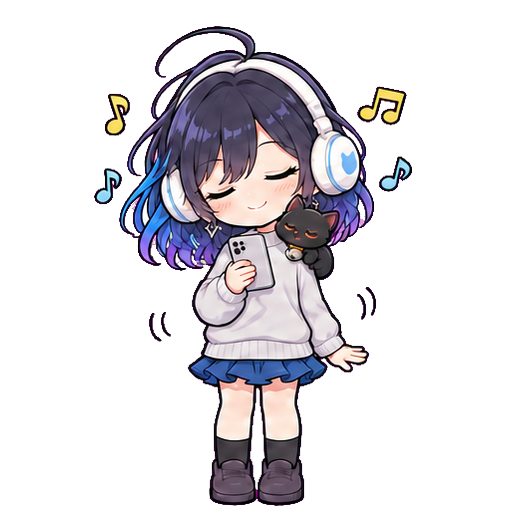
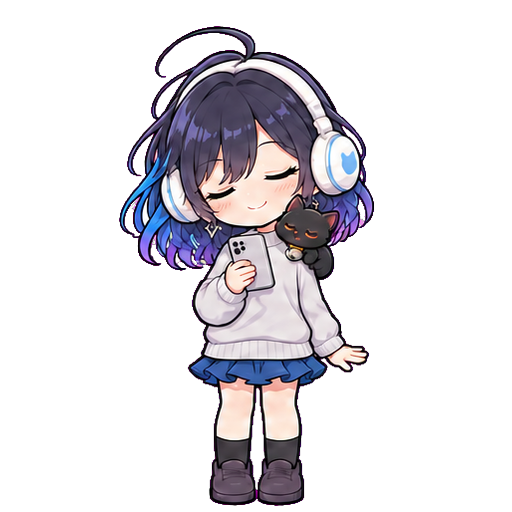
v0.6.1：听歌随节拍律动（Windows 读系统声音检测鼓点）、音符飘动、Cindy 页面实时同步音乐/视频状态

diff --git a/main.js b/main.js
@@ -1,4 +1,4 @@
-const { app, BrowserWindow, ipcMain, Menu, Tray, nativeImage, screen } = require('electron');
+const { app, BrowserWindow, ipcMain, Menu, Tray, nativeImage, screen, session, desktopCapturer } = require('electron');
 const path = require('path');
 const fs = require('fs');
 const http = require('http');
@@ -39,7 +39,7 @@ const DEFAULT_CONFIG = {
   affection: 0, outfit: 'default',
   chatBackend: 'api', relayUrl: 'http://127.0.0.1:47832',
   followCindy: false, followProcess: process.platform === 'win32' ? 'Cindy.exe' : (IS_LINUX ? 'cindy' : 'Cindy'),
-  autoPeek: false, gravity: false, dock: null, sharedAt: 0, mediaSense: true,          // autoPeek 默认关闭：不要让桌宠自己跑去趴边
+  autoPeek: false, gravity: false, dock: null, sharedAt: 0, mediaSense: true, musicDance: true,          // autoPeek 默认关闭：不要让桌宠自己跑去趴边
   state: { mood: 70, energy: 80, firstDay: today(), ruaTotal: 0, chatTotal: 0, focusDone: 0, moodLog: [] },
   reminders: []
 };
@@ -54,12 +54,36 @@ let mediaState = { kind: null, since: 0 }, mediaWatcher = null;
 function applyMediaSense() {
   const on = cfg.mediaSense !== false;
   if (on && !mediaWatcher) {
-    mediaWatcher = mediaMod.start({ getCfg: () => cfg, log: (...a) => console.log('[media]', ...a),
-      onKind: (k) => { mediaState = { kind: k, since: Date.now() }; broadcast('media:update', mediaState); } });
+    mediaWatcher = mediaMod.start({ getCfg: () => cfg, log: (...a) => console.log('[media]', ...a), onKind: (k) => setMedia(k, false) });
   } else if (!on && mediaWatcher) {
-    mediaWatcher.stop(); mediaWatcher = null; mediaState = { kind: null, since: Date.now() }; broadcast('media:update', mediaState);
+    mediaWatcher.stop(); mediaWatcher = null; setMedia(null, false);
   }
 }
+function setMedia(k, manual) {
+  mediaState = { kind: k, since: Date.now(), manual: !!manual, bpm: 0, real: false };
+  broadcast('media:update', mediaState); pushMedia(true); controlLoopback();
+}
+// 推给 Cindy 里的桌宠页（经本地中继）；节拍估计变化时也会带上 bpm，让那边的桌宠跟着同一个速度晃
+let lastMediaPush = 0;
+function pushMedia(force) {
+  if (cfg.syncActions === false) return;
+  if (!force && Date.now() - lastMediaPush < 3500) return;
+  lastMediaPush = Date.now();
+  fetch((cfg.relayUrl || 'http://127.0.0.1:47832').replace(/\/+$/, '') + '/media', {
+    method: 'POST', headers: { 'Content-Type': 'application/json', 'X-Desk-Pet': '1' },
+    body: JSON.stringify({ kind: mediaState.kind, bpm: mediaState.bpm || 0, real: !!mediaState.real }), signal: AbortSignal.timeout(2000)
+  }).catch(() => {});
+}
+// 听音乐时才读取“系统正在发出的声音有多大声”（只做节拍分析，不录音、不保存、不上传）；其余时间关闭
+function controlLoopback() {
+  if (!win || win.isDestroyed()) return;
+  const want = mediaState.kind === 'music' && cfg.musicDance !== false && process.platform === 'win32';     // 只在 Windows 读系统声音；Mac 会弹“屏幕录制”授权框，Linux 通道不稳定，这两个系统用固定节奏
+  win.webContents.executeJavaScript(want ? 'window.petStartLoopback && window.petStartLoopback()' : 'window.petStopLoopback && window.petStopLoopback()', true).catch(() => {});
+}
+ipcMain.on('media:beat', (_e, b) => {
+  if (!b || mediaState.kind !== 'music') return;
+  mediaState.bpm = Math.max(0, Math.min(240, Math.round(+b.bpm || 0))); mediaState.real = !!b.real; pushMedia(false);
+});
 
 function loadConfig() {
   cfgPath = path.join(app.getPath('userData'), 'config.json');
@@ -111,6 +135,7 @@ function createWindow() {
   if (IS_LINUX) win.setVisibleOnAllWorkspaces(true);
   if (process.platform === 'darwin') win.setVisibleOnAllWorkspaces(true, { visibleOnFullScreen: true, skipTransformProcessType: true });   // 切换桌面 / 全屏应用时仍然在场
   win.loadFile(path.join(__dirname, 'renderer', 'index.html'));
+  win.webContents.once('did-finish-load', () => setTimeout(controlLoopback, 3000));
   win.once('ready-to-show', () => { if (!cfg.followCindy) win.show(); else pollCindy(true); });
   win.webContents.on('console-message', (e) => { if (e.level === 'error' || e.level === 'warning') console.log('[renderer]', e.message); });
   win.webContents.on('render-process-gone', (_e, d) => console.log('[renderer gone]', d.reason));
@@ -142,7 +167,7 @@ ipcMain.handle('config:get', () => cfg);
 ipcMain.handle('config:set', (_e, patch) => {
   const prev = { o: cfg.outfit, r: cfg.activeRole, n: cfg.userName };
   cfg = { ...cfg, ...patch, api: { ...cfg.api, ...(patch.api || {}) }, state: { ...cfg.state, ...(patch.state || {}) } };
-  saveConfig(); broadcast('config:changed', cfg); startServer(); applyFollow(); applyMediaSense();
+  saveConfig(); broadcast('config:changed', cfg); startServer(); applyFollow(); applyMediaSense(); controlLoopback();
   if (prev.o !== cfg.outfit || prev.r !== cfg.activeRole || prev.n !== cfg.userName) touchShared('local');
   return cfg;
 });
@@ -303,6 +328,7 @@ function buildMenu() {
     { label: '跟随 Cindy（Cindy 运行时才显示）', type: 'checkbox', checked: !!cfg.followCindy,
       click: (i) => { cfg.followCindy = i.checked; saveConfig(); applyFollow(); broadcast('config:changed', cfg); } },
     { label: '感应音乐 / 视频（放歌时听歌、放视频时看视频）', type: 'checkbox', checked: cfg.mediaSense !== false, click: (i) => { cfg.mediaSense = i.checked; saveConfig(); applyMediaSense(); } },
+    { label: '听歌时随节拍律动（读取系统声音大小，不录音）', type: 'checkbox', checked: cfg.musicDance !== false, click: (i) => { cfg.musicDance = i.checked; saveConfig(); controlLoopback(); } },
     { label: '开机自动启动', type: 'checkbox', checked: autoStartOn(), click: (i) => setAutoStart(i.checked) },
     { label: '设置…', click: openSettings },
     { label: '隐藏桌宠', click: () => hidePet(true) },
@@ -349,6 +375,7 @@ function updateTray() {
     { type: 'separator' },
     { label: '跟随 Cindy', type: 'checkbox', checked: !!cfg.followCindy, click: (i) => { cfg.followCindy = i.checked; saveConfig(); applyFollow(); } },
     { label: '感应音乐 / 视频（放歌时听歌、放视频时看视频）', type: 'checkbox', checked: cfg.mediaSense !== false, click: (i) => { cfg.mediaSense = i.checked; saveConfig(); applyMediaSense(); } },
+    { label: '听歌时随节拍律动（读取系统声音大小，不录音）', type: 'checkbox', checked: cfg.musicDance !== false, click: (i) => { cfg.musicDance = i.checked; saveConfig(); controlLoopback(); } },
     { label: '开机自动启动', type: 'checkbox', checked: autoStartOn(), click: (i) => setAutoStart(i.checked) },
     { label: '设置…', click: openSettings },
     { label: '退出', click: () => { quitting = true; app.quit(); } }
@@ -388,7 +415,7 @@ function startServer() {
   if (server) { try { server.close(); } catch {} server = null; }
   server = http.createServer((req, res) => {
     const reply = (code, obj) => { res.writeHead(code, { 'Content-Type': 'application/json; charset=utf-8' }); res.end(JSON.stringify(obj)); };
-    if (req.method === 'GET' && req.url === '/ping') return reply(200, { ok: true, role: activeRole().name, roleId: cfg.activeRole, outfit: cfg.outfit, userName: cfg.userName, at: cfg.sharedAt || 0, mood: cfg.state.mood, energy: cfg.state.energy, agent: agentSnap.state, media: mediaState.kind, visible: !!(win && win.isVisible()) });
+    if (req.method === 'GET' && req.url === '/ping') return reply(200, { ok: true, role: activeRole().name, roleId: cfg.activeRole, outfit: cfg.outfit, userName: cfg.userName, at: cfg.sharedAt || 0, mood: cfg.state.mood, energy: cfg.state.energy, agent: agentSnap.state, media: mediaState.kind, mediaBpm: mediaState.bpm || 0, mediaReal: !!mediaState.real, visible: !!(win && win.isVisible()) });
     if (req.method === 'GET' && req.url === '/agent') return reply(200, { ok: true, ...agentSnap });
     if (req.method === 'GET' && (req.url === '/' || req.url === '/api')) return reply(200, {
       ok: true, name: 'Cindy 桌宠本地接口', version: app.getVersion(), auth: cfg.notifyToken ? 'X-Token 头或请求体 token' : '无',
@@ -425,7 +452,7 @@ function startServer() {
         toPet('menu:action', 'action_quiet', j.name); return reply(200, { ok: true });
       } else if (req.url === '/media') {
         const k = j.kind === 'music' || j.kind === 'video' ? j.kind : null;
-        mediaState = { kind: k, since: Date.now(), manual: true }; broadcast('media:update', mediaState); return reply(200, { ok: true, kind: k });
+        setMedia(k, true); return reply(200, { ok: true, kind: k });
       } else if (req.url === '/act') {                         // 来自 Cindy 页面的动作同步（不再回传）
         if (!['action', 'rua', 'sleep', 'wake'].includes(j.kind)) return reply(400, { ok: false, error: 'bad kind' });
         toPet('act:remote', { kind: j.kind, name: String(j.name || '').slice(0, 20) }); return reply(200, { ok: true });
@@ -491,7 +518,11 @@ else {
   });
   app.whenReady().then(() => {
     if (process.platform === 'darwin' && app.dock) app.dock.hide();          // macOS：不在 Dock 里显示图标，只留菜单栏图标
-    loadConfig(); createWindow(); createTray(); startServer(); applyFollow(); applyMediaSense();
+    loadConfig();
+    session.defaultSession.setDisplayMediaRequestHandler((_req, callback) => {      // 只给“系统声音”，页面拿到后立刻丢掉画面轨道
+      desktopCapturer.getSources({ types: ['screen'] }).then((src) => callback({ video: src[0], audio: 'loopback' })).catch(() => callback({}));
+    });
+    createWindow(); createTray(); startServer(); applyFollow(); applyMediaSense(); controlLoopback();
     const u = process.argv.find(a => a.startsWith(PROTOCOL + '://')); if (u) setTimeout(() => handleUrl(u), 1500);
   });
 }

diff --git a/plugin/main-view.js b/plugin/main-view.js
@@ -75,6 +75,7 @@ bc.onmessage = ({ data }) => {
   else if (data.type === 'state') applyRemote(data.state);
   else if (data.type === 'agent') onAgent(data.agent, data.usage);
   else if (data.type === 'act') applyAct(data.act);
+  else if (data.type === 'media') applyMedia(data.media && data.media.kind, data.media && data.media.bpm);
 };
 
 // ---------- 素材 ----------
@@ -106,7 +107,7 @@ function render() {
   const w = im.w * s, h = im.h * s;
   sprite.src = im.src; sprite.style.width = w + 'px'; sprite.style.height = h + 'px';
   sprite.style.transformOrigin = '50% 100%';
-  sprite.style.transform = `translateX(${cx - w / 2}px) scaleX(${pose === 'walk' && facing < 0 ? -1 : 1})`;
+  lastW = w; sprite.style.transform = xform();
   placeBubble(w, h, s, im);
 }
 function placeBubble(w, h, s, im) {
@@ -117,7 +118,48 @@ function placeBubble(w, h, s, im) {
   bubble.style.top = Math.max(4, top - bubble.offsetHeight - 14) + 'px';
 }
 let agentPose = null;                       // Cindy 正在干活时桌宠保持的工作姿势
-const restPose = () => agentPose || (sleeping ? 'sleep' : 'idle');
+const restPose = () => agentPose || mediaPose || (sleeping ? 'sleep' : 'idle');
+
+// ---------- 听音乐 / 看视频（桌面版感应到后推过来）+ 听歌时跟着节奏晃、音符飘起来 ----------
+const MEDIA_POSE = { music: 'listen_music', video: 'watch_video' };
+let mediaPose = null, mediaBpm = 104, lastW = 0;
+const dn = { on: false, env: 0, sway: 0, swayT: 0, dir: 1, next: 0 };
+function xform() {
+  const sx = pose === 'walk' && facing < 0 ? -1 : 1;
+  const d = dn.on ? ` translateY(${(-dn.env * 10).toFixed(1)}px) rotate(${dn.sway.toFixed(2)}deg) scale(${(1 - dn.env * 0.015).toFixed(3)}, ${(1 + dn.env * 0.03).toFixed(3)})` : '';
+  return `translateX(${cx - lastW / 2}px) scaleX(${sx})${d}`;
+}
+function syncMediaPose() {
+  if (agentPose || walking || tempPose || sleeping) return;
+  if (mediaPose && pose !== mediaPose) setPose(mediaPose);
+  else if (!mediaPose && (pose === 'listen_music' || pose === 'watch_video')) setPose(restPose());
+}
+function applyMedia(kind, bpm) {
+  if (bpm > 40) mediaBpm = bpm;                                           // 桌面版从真实声音里估出来的速度
+  const want = S.sync && kind && imgs[MEDIA_POSE[kind]] ? MEDIA_POSE[kind] : null;
+  if (want === mediaPose) return;
+  mediaPose = want; if (want) walking = null; syncMediaPose();
+}
+const NOTE_SRC = ['n_y1', 'n_y2', 'n_b1', 'n_b2'].map((n) => `/assets/notes/${n}.png`);
+function spawnNote() {
+  if (fx.querySelectorAll('.note').length > 12) return;
+  const r = sprite.getBoundingClientRect(), sr = stage.getBoundingClientRect(), im = cur(); if (!im) return;
+  const side = Math.random() < .5 ? -1 : 1, size = 22 + Math.random() * 14;
+  const el = document.createElement('img'); el.className = 'note'; el.src = pick(NOTE_SRC); el.style.width = size + 'px';
+  el.style.left = (r.left - sr.left + r.width * (0.5 + side * rand(0.3, 0.46)) - size / 2) + 'px';
+  el.style.top = (r.top - sr.top + im.t * (r.height / im.h) + r.height * rand(0.1, 0.26)) + 'px';
+  el.style.setProperty('--dx', (side * rand(14, 38)) + 'px'); el.style.setProperty('--r0', (side * rand(8, 24)) + 'deg');
+  el.style.setProperty('--dur', (1.5 + Math.random() * 0.9).toFixed(2) + 's');
+  fx.appendChild(el); setTimeout(() => el.remove(), 2600);
+}
+function danceStep(t, dt) {
+  if (!(pose === 'listen_music' && !walking)) { if (dn.on) { dn.on = false; dn.env = 0; dn.sway = 0; dn.swayT = 0; render(); } return; }
+  dn.on = true;
+  const period = 60000 / mediaBpm;
+  if (t >= dn.next) { dn.next = (dn.next && t - dn.next < period * 2 ? dn.next : t) + period; dn.env = Math.max(dn.env, 0.75); dn.dir = -dn.dir; dn.swayT = dn.dir * 2.4; spawnNote(); }
+  dn.env *= Math.exp(-dt / 150); dn.sway += (dn.swayT - dn.sway) * (1 - Math.exp(-dt / 110)); dn.swayT *= Math.exp(-dt / 600);
+  sprite.style.transform = xform();
+}
 function setPose(p, ms = 0) { pose = p; tempPose = !!ms; busyUntil = ms ? now() + ms : 0; render(); }
 async function setOutfit(o, announce, fromUser) {
   if (!OUTFITS.some((x) => x[0] === o)) o = 'default';
@@ -274,7 +316,7 @@ function onAgent(a, usage) {
   } else {
     agentPose = null;
     if (a.state === 'done' && prev !== 'done') { doAction('cheer', true); say2('这一轮做完啦！' + (AU ? '今天累计 ' + fmtN(AU.today.total) + ' tokens。' : ''), 6000); }
-    else if (prev !== a.state) setPose(sleeping ? 'sleep' : 'idle');
+    else if (prev !== a.state) setPose(restPose());
   }
   checkBudget();
 }
@@ -300,6 +342,8 @@ setInterval(() => {
   const t = now(), dt = Math.min(60, t - lastT); lastT = t;
   if (!imgs.idle) return;
   if (tempPose && busyUntil && t > busyUntil && t > ruaUntil) { tempPose = false; busyUntil = 0; setPose(restPose()); }
+  if (mediaPose || pose === 'listen_music' || pose === 'watch_video') syncMediaPose();
+  danceStep(t, dt);
   if (walking) {
     const sp = 0.07 * dt, dx = walking.tx - cx; facing = dx >= 0 ? 1 : -1;
     if (Math.abs(dx) <= sp) { cx = walking.tx; walking = null; setPose('idle'); nextDecision = t + rand(5000, 12000); }
@@ -313,7 +357,7 @@ setInterval(() => {
     else if (imgs.sit && r < .75) { doAction(pick(['sit', 'stretch', 'hug', 'drink'])); nextDecision = t + rand(10000, 20000); }
     else { setPose(Math.random() < .3 ? 'talk' : 'idle', 1800); nextDecision = t + rand(6000, 14000); }
   }
-  if (!agentPose && !sleeping && !walking && t - lastInteract > 5 * 60 * 1000) sleepNow();
+  if (!agentPose && !mediaPose && !sleeping && !walking && t - lastInteract > 5 * 60 * 1000) sleepNow();
   if (t - lastCare > 45 * 60 * 1000 && !sleeping) { lastCare = t; const l = pick(LINES.care); if (imgs.drink && /水/.test(l)) doAction('drink', true); else setPose('talk', 5000); say(l, 8000); }
 }, 16);
 window.addEventListener('resize', () => { cx = Math.max(60, Math.min(stage.clientWidth - 60, cx)); render(); });
@@ -338,6 +382,7 @@ async function pingDesktop() {
     if (r.desktop.at > (S.sharedAt || 0)) await applyRemote(r.desktop);
     else if ((S.sharedAt || 0) > r.desktop.at) pushShared();
   }
+  if (on && S.sync && r.desktop) applyMedia(r.desktop.media, r.desktop.bpm);          // 页面刚打开 / 错过推送时，也能追上桌面版正在听什么
   dot.className = 'dot ' + (on ? 'on' : 'off'); dot.title = on ? '桌面版在线' : '未检测到桌面版';
   $('#hint').textContent = on
     ? '桌面版在线。想让它用 Cindy 的模型聊天：桌面版右键 → 设置 → 对话来源选“Cindy 模型”（需保持本页面打开）。'
@@ -417,6 +462,6 @@ $('#pScan').onclick = async () => { const r = await request({ type: 'project-sca
   const h = new Date().getHours();
   const hi = h < 5 ? '这么晚还没睡……我陪你一会儿，但别太晚。' : h < 11 ? '早上好。今天也一起加油吧。' : h < 14 ? '中午啦，记得吃饭。' : h < 18 ? '下午好，要不要喝点水？' : h < 23 ? '晚上好，今天辛苦了。' : '夜深了，快去休息吧。';
   setTimeout(() => { setPose('talk', 4500); say(hi, 6000); }, 500);
-  pingDesktop(); setInterval(pingDesktop, 25000);
+  pingDesktop(); setInterval(pingDesktop, 8000);
   request({ type: 'dashboard', fresh: true }, 20000).then((r) => { if (r && r.ok) { AU = r.usage; if (r.agent) onAgent(r.agent, r.usage); } }); setInterval(() => fetch('/wake').catch(() => {}), 40000);
 })();

diff --git a/renderer/pet.js b/renderer/pet.js
@@ -467,6 +467,7 @@ function applyMedia(kind, announce) {
   if (want === mediaPose) return;
   mediaPose = want;
   if (want) {
+    if (want === 'listen_music') loadNotes();
     bump(1, 0);
     if (announce && now() - lastMediaSay > 60000 && !mediaBusy()) { lastMediaSay = now(); say(pick(MEDIA_LINES[mediaKind]), 4000); }
     if (!mediaBusy()) walking = null;
@@ -474,6 +475,82 @@ function applyMedia(kind, announce) {
   syncMediaPose();
 }
 onEvt('media:update', (m) => applyMedia(m && m.kind, true));
+
+// ---------- 听歌时跟着节拍动：身体弹跳 + 左右摇摆 + 音符一个个飘起来 ----------
+// 节拍来自系统正在播放的声音（只分析低频音量，不录音、不保存）。拿不到系统声音时，用固定节奏代替。
+const NOTE_FILES = ['n_y1', 'n_y2', 'n_b1', 'n_b2'];
+const noteUrls = [];
+function loadNotes() {
+  if (noteUrls.length) return;
+  for (const n of NOTE_FILES) { try { noteUrls.push(URL.createObjectURL(new Blob([window.pet.asset('notes/' + n + '.png')], { type: 'image/png' }))); } catch {} }
+}
+let audio = null, realBeat = false;
+let beatEnv = 0, sway = 0, swayTarget = 0, bassAvg = 0, lastBeat = 0, beatDir = 1, beatTimes = [], quietMs = 0, fakeNext = 0, lastNoteAt = 0, lastReport = 0, danced = false, curBpm = 0;
+window.petStartLoopback = async () => {
+  if (audio || (cfg && cfg.musicDance === false)) return;
+  try {
+    const stream = await navigator.mediaDevices.getDisplayMedia({ video: true, audio: true });
+    stream.getVideoTracks().forEach((t) => { t.stop(); stream.removeTrack(t); });            // 只要声音，画面轨道立刻丢掉
+    if (!stream.getAudioTracks().length) { realBeat = false; return; }
+    const ctx = new AudioContext(); await ctx.resume();
+    const an = ctx.createAnalyser(); an.fftSize = 1024; an.smoothingTimeConstant = 0.15;
+    ctx.createMediaStreamSource(stream).connect(an);                                       // 只接分析器，不接扬声器，不会出声
+    audio = { stream, ctx, an, buf: new Uint8Array(an.frequencyBinCount) };
+    stream.getAudioTracks()[0].onended = () => window.petStopLoopback();
+    realBeat = true; bassAvg = 0;
+  } catch (e) { realBeat = false; }                                                        // 没有系统声音通道（如 macOS）就用固定节奏
+};
+window.petStopLoopback = () => {
+  if (audio) { try { audio.stream.getTracks().forEach((t) => t.stop()); audio.ctx.close(); } catch {} audio = null; }
+  realBeat = false;
+};
+function spawnNote(strength) {
+  if (!noteUrls.length || fx.querySelectorAll('.note').length > 14) return;
+  const r = sprite.getBoundingClientRect(), im = curImg(); if (!im) return;
+  const top = r.top + im.bbox.t * (r.height / im.h), side = Math.random() < .5 ? -1 : 1;
+  const el = document.createElement('img'); el.className = 'note'; el.src = pick(noteUrls);
+  const size = (24 + Math.random() * 14) * (cfg.scale || 1) * (0.9 + strength * 0.35);
+  el.style.width = size + 'px';
+  el.style.left = (r.left + r.width * (0.5 + side * rand(0.3, 0.46)) - size / 2) + 'px';
+  el.style.top = (top + r.height * rand(0.1, 0.26)) + 'px';
+  el.style.setProperty('--dx', (side * rand(14, 38)) + 'px'); el.style.setProperty('--r0', (side * rand(8, 24)) + 'deg');
+  el.style.setProperty('--dur', (1.5 + Math.random() * 0.9).toFixed(2) + 's');
+  fx.appendChild(el); setTimeout(() => el.remove(), 2600);
+}
+function onBeat(strength, t) {
+  lastBeat = t; beatEnv = Math.max(beatEnv, 0.55 + 0.45 * strength);
+  beatDir = -beatDir; swayTarget = beatDir * (1.6 + 1.8 * strength);
+  if (t - lastNoteAt > 180) { lastNoteAt = t; spawnNote(strength); if (strength > 0.8 && Math.random() < .5) setTimeout(() => spawnNote(strength), 90); }
+  beatTimes.push(t); if (beatTimes.length > 14) beatTimes.shift();
+  if (beatTimes.length >= 5) {                                                             // 由最近几拍的间隔估计速度（BPM）
+    const iv = []; for (let i = 1; i < beatTimes.length; i++) { const d = beatTimes[i] - beatTimes[i - 1]; if (d > 250 && d < 1100) iv.push(d); }
+    if (iv.length >= 3) { iv.sort((a, b) => a - b); let b = 60000 / iv[Math.floor(iv.length / 2)]; while (b < 70) b *= 2; while (b > 170) b /= 2; curBpm = Math.round(b); }
+  }
+}
+function danceStep(t, dt) {
+  const on = cfg && cfg.musicDance !== false && !dock && !dragging && !glide && pose === 'listen_music';
+  if (!on) { if (danced) { danced = false; sprite.style.transform = ''; sprite.style.transformOrigin = ''; } return; }
+  if (audio) {
+    audio.an.getByteFrequencyData(audio.buf);
+    const b = audio.buf, binHz = audio.ctx.sampleRate / audio.an.fftSize;
+    let bass = 0, nb = 0; for (let i = Math.max(1, Math.round(30 / binHz)); i <= Math.round(180 / binHz); i++) { bass += b[i]; nb++; }
+    bass = nb ? bass / nb : 0;
+    let all = 0; for (let i = 1; i < 64; i++) all += b[i]; all /= 63;
+    quietMs = all < 6 ? quietMs + dt : 0;
+    bassAvg += (bass - bassAvg) * Math.min(1, dt / 700);
+    if (quietMs < 500 && bass > bassAvg * 1.12 + 10 && bass > 70 && t - lastBeat > 230) onBeat(Math.min(1, (bass - bassAvg) / 70 + 0.3), t);
+    else if (quietMs < 500) beatEnv = Math.max(beatEnv, Math.min(0.3, all / 255 * 0.5));   // 没有明显鼓点时随整体音量轻轻起伏
+  } else if (t > fakeNext) {                                                                // 没有系统声音：固定节奏（约 104 拍/分钟）
+    fakeNext = t + 575; onBeat(0.5, t); curBpm = 104;
+  }
+  beatEnv *= Math.exp(-dt / 150);
+  sway += (swayTarget - sway) * (1 - Math.exp(-dt / 110)); swayTarget *= Math.exp(-dt / 600);
+  const sc = cfg.scale || 1;
+  sprite.style.transformOrigin = '50% 96%';
+  sprite.style.transform = `translateX(-50%) translateY(${(-beatEnv * 10 * sc).toFixed(1)}px) rotate(${sway.toFixed(2)}deg) scale(${(1 - beatEnv * 0.015).toFixed(3)}, ${(1 + beatEnv * 0.03).toFixed(3)})`;
+  danced = true;
+  if (t - lastReport > 4000) { lastReport = t; window.pet.reportBeat({ bpm: curBpm, real: !!audio }); }        // 告诉 Cindy 里的桌宠页同一个速度
+}
 function sleepNow() { sleeping = true; walking = null; setPose('sleep'); }
 function wake(silent) { if (!sleeping) return; sleeping = false; setPose(restPose()); if (!silent) say(pick(LINES.wake)); }
 
@@ -547,6 +624,7 @@ function loop() {
     walkAnimT += dt; if (walkAnimT > 150) { walkAnimT = 0; walkFrame++; pose = 'walk'; render(); }
   }
   if (mediaPose || pose === 'listen_music' || pose === 'watch_video') syncMediaPose();
+  danceStep(t, dt);
   // 自主行为
   if (dock && dockAuto && t > dockUntil && !chatOpen && !down) undock(false);
   const free = !agentPose && !dock && !dragging && !down && !chatOpen && !walking && !tempPose && !sleeping && pose === 'idle';

diff --git a/plugin/main-view.css b/plugin/main-view.css
@@ -53,3 +53,13 @@ button.mini { font: inherit; font-size: 12px; padding: 2px 8px; border-radius: 6
 .file { font-size: 11px; color: var(--text-secondary, #888); overflow: hidden; text-overflow: ellipsis; white-space: nowrap; }
 .task { display: flex; align-items: center; gap: 6px; margin: 4px 0; } .task .ttl { flex: 1; overflow: hidden; text-overflow: ellipsis; white-space: nowrap; font-size: 12px; }
 .chip2 { color: #fff; font-size: 11px; padding: 1px 6px; border-radius: 99px; flex: 0 0 auto; }
+
+.note { position: absolute; height: auto; pointer-events: none; will-change: transform, opacity; opacity: 0; animation: noteFloat var(--dur, 1.9s) ease-out forwards; filter: drop-shadow(0 1px 2px rgba(0,0,0,.25)); z-index: 3; }
+@keyframes noteFloat {
+  0%   { opacity: 0; transform: translate(0, 8px) rotate(var(--r0, 10deg)) scale(.5); }
+  12%  { opacity: 1; transform: translate(calc(var(--dx, 20px) * .15), -10px) rotate(var(--r0, 10deg)) scale(1.05); }
+  35%  { transform: translate(calc(var(--dx, 20px) * .7), -42px) rotate(calc(var(--r0, 10deg) * -.7)) scale(1); }
+  60%  { transform: translate(calc(var(--dx, 20px) * -.3), -78px) rotate(calc(var(--r0, 10deg) * .8)) scale(.98); }
+  82%  { opacity: .9; transform: translate(calc(var(--dx, 20px) * .6), -108px) rotate(calc(var(--r0, 10deg) * -.5)) scale(.95); }
+  100% { opacity: 0; transform: translate(calc(var(--dx, 20px) * -.2), -135px) rotate(var(--r0, 10deg)) scale(.85); }
+}

diff --git a/renderer/style.css b/renderer/style.css
@@ -46,3 +46,13 @@ html, body { width: 100%; height: 100%; overflow: hidden; background: transparen
 
 #sprite.dock-t { bottom: auto; top: 0; }
 #bubble.below::after { bottom: auto; top: -9px; transform: translateX(-50%) rotate(225deg); }
+
+.note { position: absolute; height: auto; pointer-events: none; will-change: transform, opacity; opacity: 0; animation: noteFloat var(--dur, 1.9s) ease-out forwards; filter: drop-shadow(0 1px 2px rgba(0,0,0,.25)); }
+@keyframes noteFloat {
+  0%   { opacity: 0; transform: translate(0, 8px) rotate(var(--r0, 10deg)) scale(.5); }
+  12%  { opacity: 1; transform: translate(calc(var(--dx, 20px) * .15), -10px) rotate(var(--r0, 10deg)) scale(1.05); }
+  35%  { transform: translate(calc(var(--dx, 20px) * .7), -42px) rotate(calc(var(--r0, 10deg) * -.7)) scale(1); }
+  60%  { transform: translate(calc(var(--dx, 20px) * -.3), -78px) rotate(calc(var(--r0, 10deg) * .8)) scale(.98); }
+  82%  { opacity: .9; transform: translate(calc(var(--dx, 20px) * .6), -108px) rotate(calc(var(--r0, 10deg) * -.5)) scale(.95); }
+  100% { opacity: 0; transform: translate(calc(var(--dx, 20px) * -.2), -135px) rotate(var(--r0, 10deg)) scale(.85); }
+}

diff --git a/plugin/main.js b/plugin/main.js
@@ -218,7 +218,8 @@ async function relayLoop() {
       if (!r.ok) { await sleep(4000); continue; }
       const job = r.result;
       if (job && job.event === 'state') { bc.postMessage({ type: 'state', state: job.state }); continue; }   // 桌面版改了设置 -> 通知页面
-      if (job && job.event === 'act') { bc.postMessage({ type: 'act', act: job.act }); continue; }          // 桌面版做了动作 -> 页面里的桌宠也做
+      if (job && job.event === 'act') { bc.postMessage({ type: 'act', act: job.act }); continue; }
+      if (job && job.event === 'media') { bc.postMessage({ type: 'media', media: job.media }); continue; }          // 桌面版在听歌/看视频 -> 页面里的桌宠也跟着          // 桌面版做了动作 -> 页面里的桌宠也做
       if (!job || !job.id) continue;
       const out = await askCindy(job).catch((e) => ({ ok: false, error: String((e && e.message) || e) }));
       await cindy.node.request({ method: 'relay/reply', params: { id: job.id, ...out }, timeoutMs: 10000 });

diff --git a/preload.js b/preload.js
@@ -18,6 +18,7 @@ contextBridge.exposeInMainWorld('pet', {
   sendAct: (a) => ipcRenderer.send('act:send', a),
   getAgent: () => ipcRenderer.invoke('agent:get'),
   getMedia: () => ipcRenderer.invoke('media:get'),
+  reportBeat: (b) => ipcRenderer.send('media:beat', b),
   openPanel: (tab) => ipcRenderer.send('panel:open', tab),
   emit: (kind, a, b) => ipcRenderer.send('pet:emit', kind, a, b),
   setDock: (d) => ipcRenderer.send('dock:set', d),

diff --git a/MEDIA.md b/MEDIA.md
@@ -45,3 +45,16 @@
 - 命令行：`node deskpet-cli.cjs action music`、`action video`。
 - Cindy 里：`pet_action`，`name` 选 `music` 或 `video`；Cindy 的桌宠页面上也有对应按钮。
 - 本机接口：`POST /action {"name":"music"}`；`POST /media {"kind":"music|video|none"}` 可以直接告诉桌宠“现在在听歌/看视频”（给其他播放器或测试用）。`GET /ping` 里的 `media` 字段是当前感应到的结果。
+
+## 听歌时跟着节拍动（0.6.1 起）
+
+放歌时桌宠不再是一张静止的图：
+
+- **身体律动**：每个鼓点身体向上弹一下、轻微拉伸，并左右交替摇摆，鼓点之间慢慢回落。
+- **音符会动**：音符不再画在姿势图里，而是一个个从头两侧飘起来，边上升边左右摇摆、旋转，最后淡出；鼓点越重，音符越大、越多。
+- **节拍从哪来**：
+  - **Windows**：读取系统正在发出的声音，分析低频部分的起伏来找鼓点，并估算速度（BPM）。**只用来算节拍，不录音、不保存、不上传**；只在“正在听音乐”时才会打开，音乐停了就关闭。
+  - **Mac / Linux**：暂时没有可靠的系统声音通道，使用固定节奏（约 104 拍/分钟）摇摆，并不会真的踩在你放的歌的点上。
+- **Cindy 里的桌宠页**：桌面版把“正在听歌 / 看视频”和估算出的速度实时推给 Cindy 页面，页面里的桌宠同步换姿势，并按同一个速度摇摆、飘音符。页面里是按速度“打拍子”，不是逐拍对齐，所以和桌面上的会有细微的错位；页面刚打开时会在 8 秒内追上桌面版当前的状态。
+- **不想要**：右键菜单或托盘菜单里取消勾选“听歌时随节拍律动”，桌宠听歌时就保持静止姿势、没有音符。取消勾选后系统声音通道也不会再打开。
+- 节拍检测对鼓点清晰的音乐（流行、电子、摇滚）效果好；纯人声、古典、环境音乐没有明显鼓点，桌宠只会随整体音量轻轻起伏。
